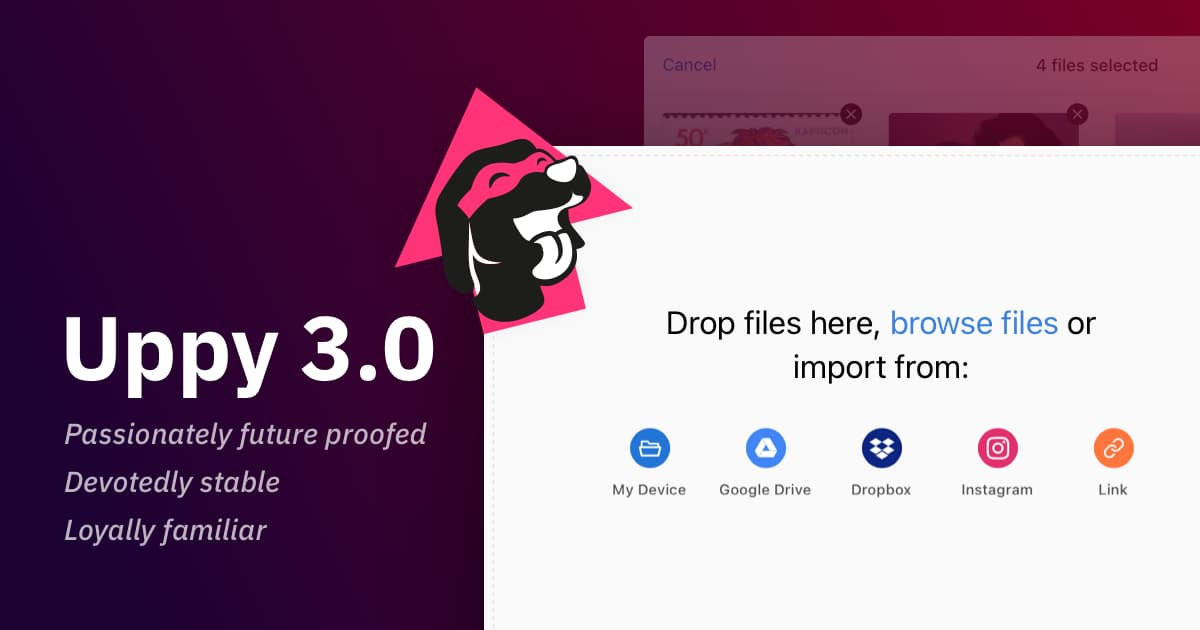
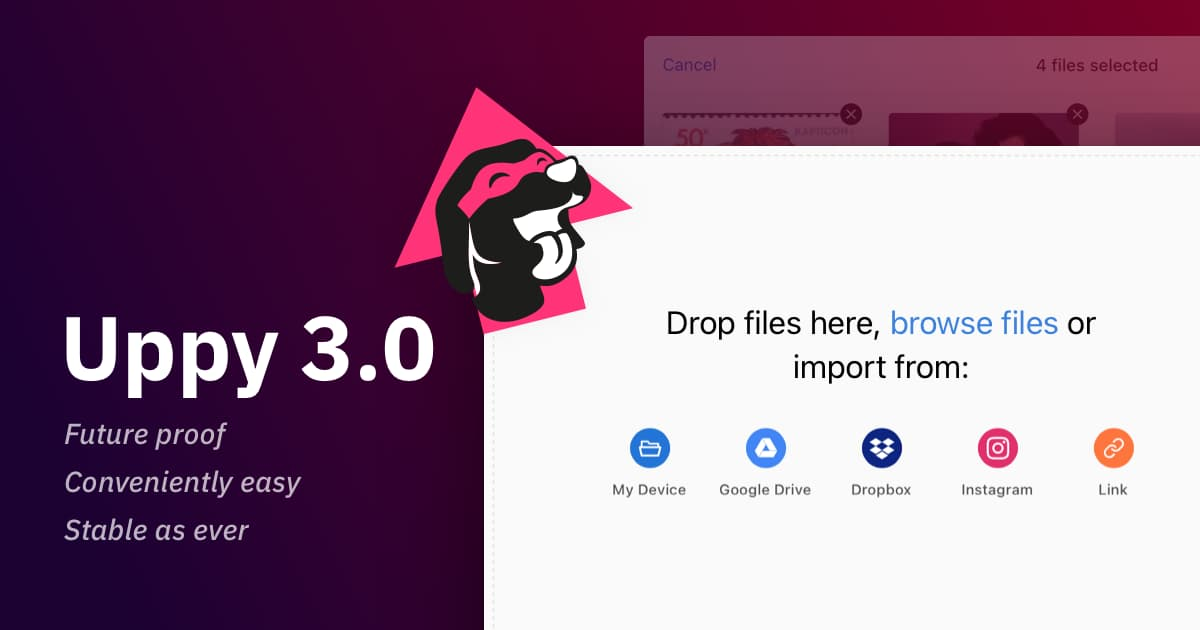
3.0 blog post tweaks (#4104)

Changed region(s): [[0.0617, 0.6635, 0.37, 0.7238], [0.0617, 0.8143, 0.2158, 0.8746], [0.0617, 0.754, 0.2467, 0.7841]]

diff --git a/website/src/_posts/2022-09-3.0.md b/website/src/_posts/2022-09-3.0.md
@@ -1,6 +1,6 @@
 ---
 title: "Uppy 3.0: Future-proof, conveniently easy, stable as ever" 
-date: 2022-09-01
+date: 2022-09-13
 author: 
   - aduh95
   - arturi
@@ -10,13 +10,13 @@ image: "https://uppy.io/images/blog/3.0/uppy-3-0.jpg"
 published: true
 ---
 
-![Screenshot of Uppy 3.0.0 UI](/images/blog/3.0/uppy-3-0.png)
+![Screenshot of Uppy 3.0.0 UI](/images/blog/3.0/uppy-3-0.jpg)
 
 Uppy is turning three! When you’re counting in [dog years](https://www.akc.org/expert-advice/health/how-to-calculate-dog-years-to-human-years/) – which we most certainly are – that’s 29 already. An age like that signifies proper adulthood. For Uppy, this means it’s ready to stay loyal, but without the silly mistakes (read: bugs). Uppy also underwent (ESM) surgery to keep it strolling by your side in the current ecosystem, and received other behavioral improvements 🐶
 
-TL;DR: ESM transition, native mobile camera, new Remote Sources plugin, sweeping Companion rewrite and streaming support, `async`/`await` everything, React 18 and Vue 3 support, all examples rewritten.
-
 <!--more-->
+
+TL;DR: ESM transition, native mobile camera, new Remote Sources plugin, sweeping Companion rewrite and streaming support, `async`/`await` everything, React 18 and Vue 3 support, all examples rewritten.
 
 ## ESM surgery
 
